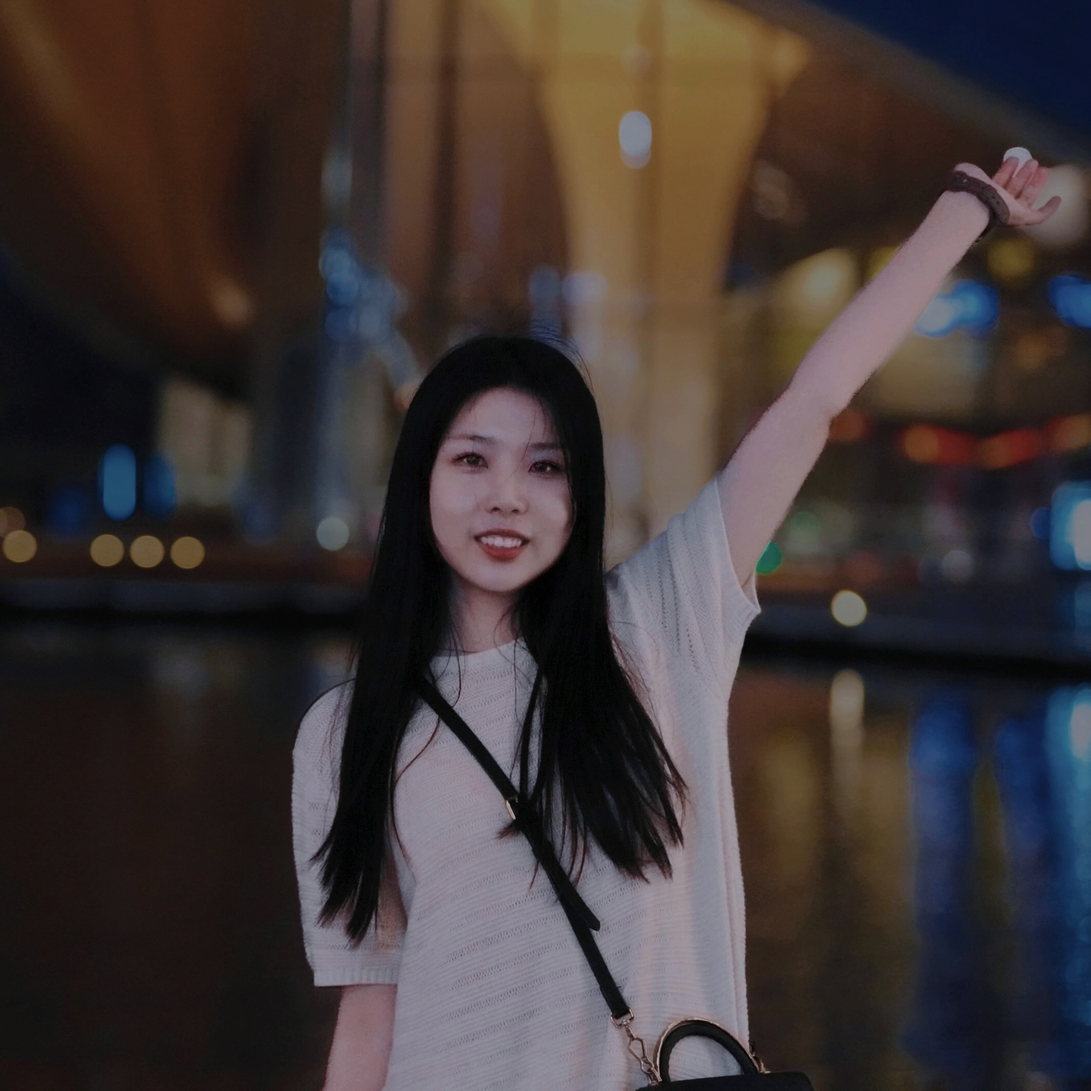
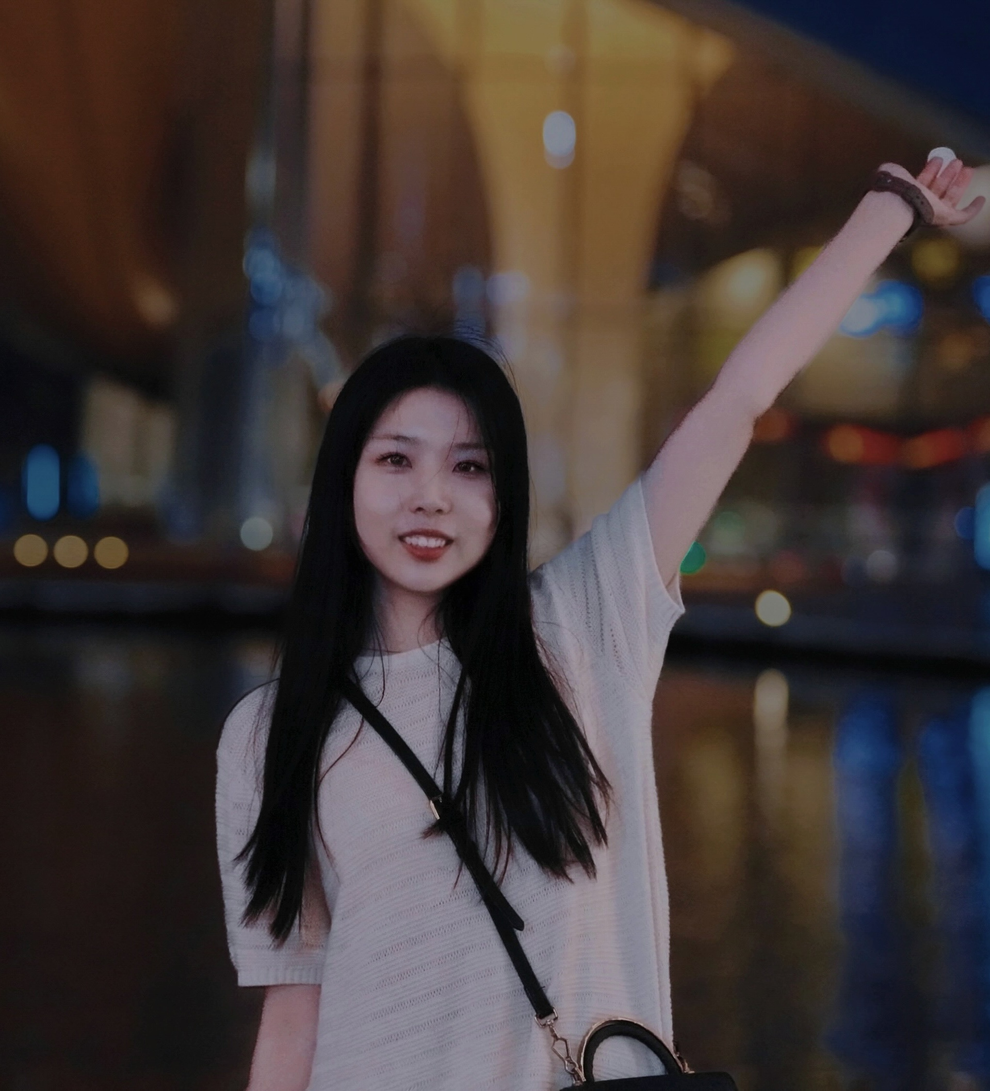
Updated photo position.

diff --git a/assets/css/custom.css b/assets/css/custom.css
@@ -70,10 +70,12 @@ html[data-theme='dark'] #scroll-progress-bar {
 }
 
 /* Homepage profile image: soft, diffused shadow like a photo card */
-.home-profile-photo {
-  width: 280px;
-  height: 280px;
-  object-fit: cover;
+.home-page .profile .home-profile-photo {
+  width: 280px !important;
+  max-width: 100%;
+  height: auto !important;
+  object-fit: contain;
+  display: block;
   margin-right: 20px;
   margin-top: 10px;
   border-radius: 8px;
@@ -82,9 +84,28 @@ html[data-theme='dark'] #scroll-progress-bar {
     0 10px 22px rgba(38, 66, 102, 0.10);
 }
 
+@media (max-width: 1200px) {
+  .home-page .profile.float-right {
+    float: none !important;
+    margin-left: auto !important;
+    margin-right: auto !important;
+    text-align: center;
+  }
+
+  .home-page .profile figure {
+    margin: 0 auto;
+  }
+
+  .home-page .profile .home-profile-photo {
+    margin-left: auto;
+    margin-right: auto;
+  }
+}
+
 @media (max-width: 576px) {
-  .home-profile-photo {
-    margin-right: 0;
+  .home-page .profile .home-profile-photo {
+    margin-left: auto;
+    margin-right: auto;
   }
 }
 

diff --git a/index.html b/index.html
@@ -109,13 +109,8 @@
 <figure>
   
   <picture>
-    <source media="(max-width: 480px)" srcset="/assets/img/profile-480.webp"></source>
-    <source media="(max-width: 800px)" srcset="/assets/img/profile-800.webp"></source>
-    <source media="(max-width: 1400px)" srcset="/assets/img/profile-1400.webp"></source>
-    <!-- Fallback to the original file -->
-    <!-- <img class="img-fluid z-dept-1 rounded" src="/assets/img/profile.jpeg" alt="profile.jpeg" style="width: 300px; height: 300px;  margin-right: 1px; margin-top: 10px;"> -->
+    <!-- Use one cropped source across all breakpoints to preserve aspect ratio -->
     <img class="home-profile-photo" src="/assets/img/profile.jpeg" alt="profile.jpeg">
-
   </picture>
   <figcaption style="margin-top: 10px; text-align: center;">
     <p style="font-size: 25px; margin: 0;"><strong>Yiren Zhao</strong></p>
